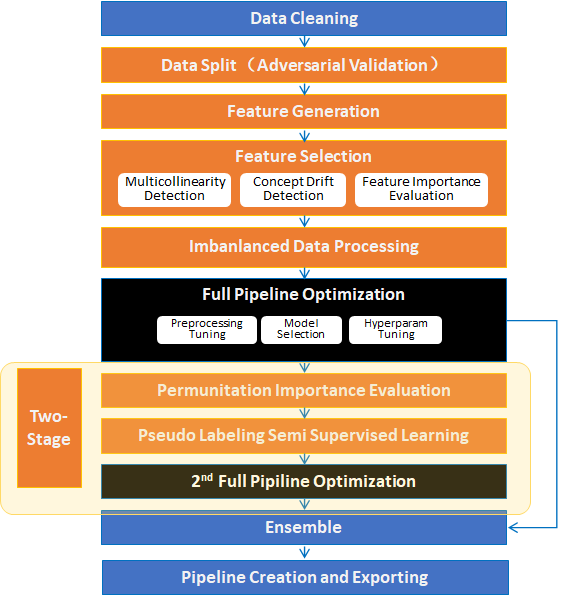
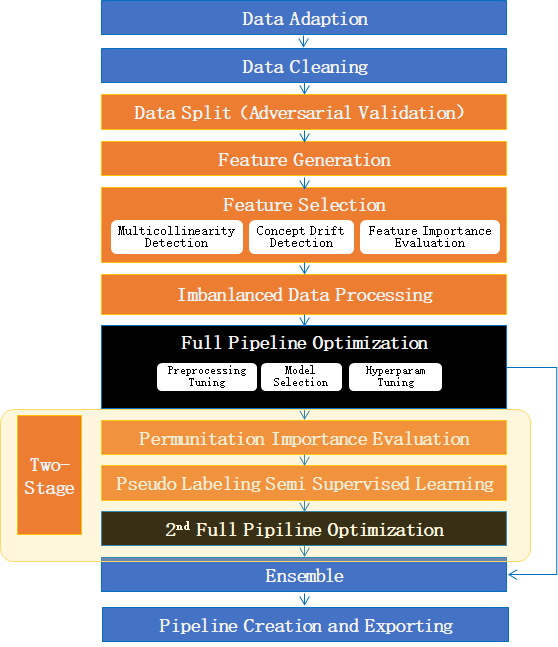
Update docs

diff --git a/docs/source/experiment.rst b/docs/source/experiment.rst
@@ -67,7 +67,7 @@ CompeteExperiment
 CompeteExperiment is an implementation of experiment with many advanced features for tabular data, such as data cleaning, feature generation, feature selection, semi-supervised machine learning, two-stages searching etc.
 
 .. image:: images/compete_experiment.png
-   :height: 500
+   :height: 540
    :align: center
 
 Quick start
@@ -240,10 +240,21 @@ Ensemble Models
     experiment = CompeteExperiment(hyper_model, ensemble_size=10, ...)
 
 
+Data Adaption
+>>>>>>>>>>>>>>>>>
+
+This step supports Pandas/Cuml data types only, relevant parameters:
+
+* data_adaption：(default True). Whether to enable data adaption.
+* data_adaption_memory_limit：(default 0.05). If float, should be between 0.0 and 1.0 and represent the proportion of the system free memory. If int, represents the absolute byte number of memory.
+* data_adaption_min_cols：(default 0.1). If float, should be between 0.0 and 1.0 and represent the proportion of the original dataframe column number. If int, represents the absolute column number.
+* data_adaption_target：(default None)，Where to run the next steps. 'cuml' or 'cuda', adapt training data into cuml datatypes and run next steps on nvidia GPU Devices. None, not change the training data types.
+
+
 Data cleaning
 >>>>>>>>>>>>>>>>>
 
-The first step of the *CompeteExperiment* is to perform data cleaning with DataCleaner in Hypernets. Note that this step can not be disabled but can be adjusted with DataCleaner in the following ways：
+*CompeteExperiment* performs data cleaning with DataCleaner in Hypernets. Note that this step can not be disabled but can be adjusted with DataCleaner in the following ways：
 
 * nan_chars： value or list, (default None), replace some characters with np.nan
 * correct_object_dtype： bool, (default True), whether correct the data types
